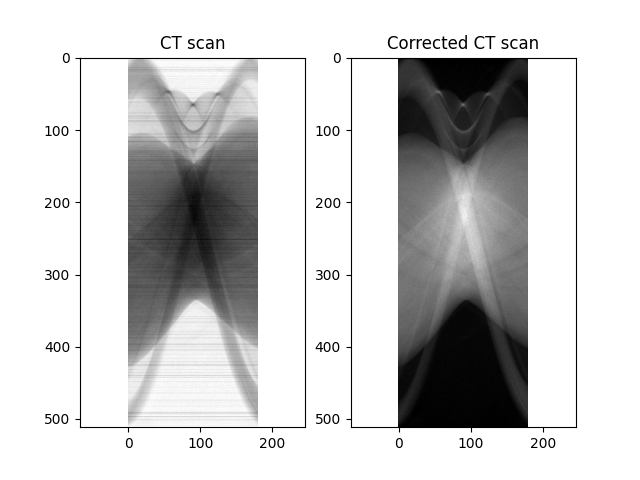
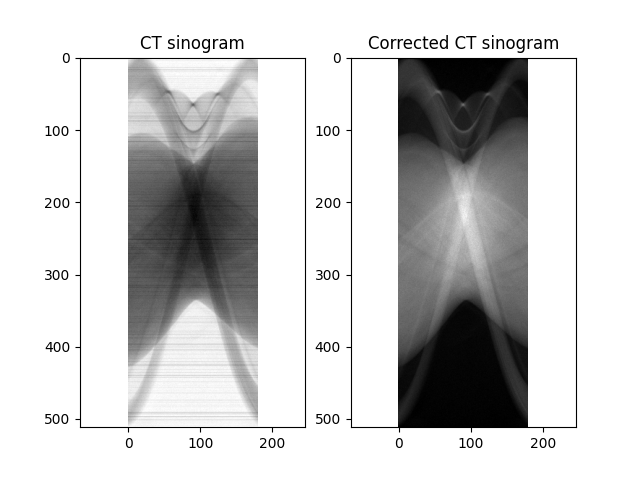
PET script modified

Changed region(s): [[0.5625, 0.0625, 0.875, 0.125], [0.2188, 0.0625, 0.375, 0.125]]

diff --git a/code/PET_CT/PET_CT_112.py b/code/PET_CT/PET_CT_112.py
@@ -94,11 +94,11 @@ def main(data_path,output_path = "graph"):
     plt.figure()
     plt.subplot(121)
     plt.imshow(pet_sino,cmap="gray_r") 
-    plt.title("Original PET scan")
+    plt.title("Original PET sinogram")
     plt.axis("equal")
     plt.subplot(122)
     plt.imshow(pet_corrected, cmap="gray_r")
-    plt.title("Corrected PET scan")
+    plt.title("Corrected PET sinogram")
     plt.axis("equal")
     plt.savefig(output_path + "/pet_corrected.png")
     plt.show()
@@ -107,11 +107,11 @@ def main(data_path,output_path = "graph"):
     plt.figure()
     plt.subplot(121)
     plt.imshow(ct_sino,cmap="gray")
-    plt.title("CT scan") 
+    plt.title("CT sinogram") 
     plt.axis("equal")   
     plt.subplot(122)
     plt.imshow(ct_corrected, cmap="gray")
-    plt.title("Corrected CT scan")
+    plt.title("Corrected CT sinogram")
     plt.axis("equal")
     plt.savefig(output_path + "/ct_corrected.png")
     plt.show()
@@ -128,6 +128,7 @@ def main(data_path,output_path = "graph"):
     angles = np.linspace(0, 180, 180,endpoint=False)
 
     ct_ossart = os_sart(ct_corrected, angles,n_iterations = 100, gamma = 0.001)
+    print(ct_ossart.shape)
     os.makedirs("saved_data", exist_ok=True)
     np.save("saved_data/ct_ossart.npy",ct_ossart)
     ct_sirt = sirt(ct_corrected,angles,n_iterations = 100, gamma = 0.001)
